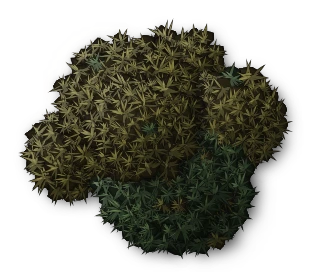
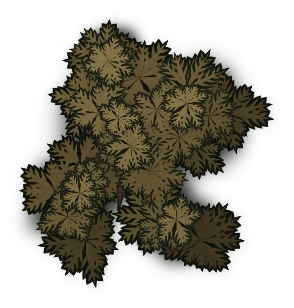
forest canopies are layered inked sprigs
the canopy outline follows the leaf tips instead of round masses: three layers of feathery star sprigs, ink under each layer, branches in the gaps and continuous olive tones.

diff --git a/src/procedural/pesados/plantas.ts b/src/procedural/pesados/plantas.ts
@@ -86,93 +86,87 @@ const pinheiroNevado = (diametro: number, seed: number): DescricaoDePiso => coni
 /** Carvalho: copa densa de muitos tufos pequenos, com folhas pintadas. */
 const carvalhoGrande = (diametro: number, seed: number): DescricaoDePiso => copaDeTufos(diametro, seed, VERDE, { miudo: 0.85, folhas: 7 });
 
-/** Tons da mata fechada à noite: verde-oliva com cachos amarelados e outros mais frios (ver `copaDeRaminhos`). */
-const OLIVA: Tons = { fundo: '#1b2313', base: '#38461f', meio: '#52622b', luz: '#717f3b', brilho: '#98a157' };
-const AMARELADO: Tons = { fundo: '#241f10', base: '#4a4520', meio: '#66602c', luz: '#857c3c', brilho: '#a89b55' };
-const FRIO: Tons = { fundo: '#141d12', base: '#2b3d26', meio: '#3b5232', luz: '#526b42', brilho: '#768a5a' };
+/** Tons da mata fechada: verde-oliva acinzentado, com moitas amareladas e outras mais frias (ver `copaDeRaminhos`). */
+const OLIVA: Tons = { fundo: '#272a1c', base: '#4a4e33', meio: '#5e633e', luz: '#777b4d', brilho: '#91935e' };
+const AMARELADO: Tons = { fundo: '#30291a', base: '#56492b', meio: '#6a5b35', luz: '#806e42', brilho: '#968352' };
+const FRIO: Tons = { fundo: '#20271e', base: '#384332', meio: '#46533f', luz: '#58654e', brilho: '#6f7b62' };
+const NANQUIM = '#12150e';
+/** A cor entre `a` e `b` (t de 0 a 1): os raminhos variam em tons contínuos, não em degraus. */
+function misturar(a: string, b: string, t: number): string {
+  const p = (h: string, k: number) => parseInt(h.slice(1 + k * 2, 3 + k * 2), 16), c = [0, 1, 2].map(k => Math.round(p(a, k) + (p(b, k) - p(a, k)) * t));
+  return '#' + c.map(v => v.toString(16).padStart(2, '0')).join('');
+}
 
-/**
- * Um cacho de folhas finas visto de cima (a unidade da copa de mata): fundo escuro em estrela com nanquim e sombra, duas voltas de folhas
- * estreitas que saem do centro, do escuro (atrás) ao claro (na frente e virado para a luz), e pontas acesas no lado da luz.
- */
-function cacho(partes: Parte[], r: () => number, x: number, y: number, raio: number, tons: Tons, z: number, lado: number, folhasBase = 24): void {
-  const n = folhasBase + Math.floor(r() * folhasBase * 0.5), luz = Math.atan2(LUZ_Y, LUZ_X), t = tonsComLuz(tons, Math.max(-0.42, Math.min(0.3, lado * 0.2))), o = { contorno: false as const, semSombra: true, suave: true };
-  // A base do cacho (só sombra projetada e um miolo escuro, sem traço).
-  partes.push(poli(bolha(x, y, raio * 0.62, raio * 0.62, 10, 0.25, r), t.fundo, z, { contorno: false, sombraLeve: true, detalhe: 1 }));
-  const folhas: { a: number; len: number; w: number; bx: number; by: number }[] = [];
-  for (let i = 0; i < n; i++) {
-    const a = r() * Math.PI * 2, d = raio * r() * 0.22, b = r() * Math.PI * 2;
-    folhas.push({ a, len: raio * (0.45 + r() * 0.55), w: raio * (0.1 + r() * 0.07), bx: x + Math.cos(b) * d, by: y + Math.sin(b) * d });
+/** Um raminho visto de cima: braços (ângulo, comprimento, largura) saindo de (x, y). Sorteado uma vez e desenhado duas (nanquim e cor). */
+interface Raminho { x: number; y: number; bracos: { a: number; len: number; w: number }[] }
+
+function sortearRaminho(r: () => number, x: number, y: number, raio: number): Raminho {
+  const n = 9 + Math.floor(r() * 4), giro = r() * Math.PI * 2, bracos: Raminho['bracos'] = [];
+  for (let i = 0; i < n; i++) bracos.push({ a: giro + (i / n) * Math.PI * 2 + (r() - 0.5) * 0.4, len: raio * (0.6 + r() * 0.4), w: raio * (0.11 + r() * 0.04) });
+  return { x, y, bracos };
+}
+
+/** Desenha o raminho: cada braço é uma lente com dois pares de folíolos em ponta, o que serrilha a borda. `engorda` (m) alarga tudo: o nanquim. */
+function desenharRaminho(partes: Parte[], f: Raminho, cor: string, z: number, engorda: number, sombra: boolean): void {
+  const o = { contorno: false as const, suave: true };
+  for (const b of f.bracos) {
+    const c = Math.cos(b.a), s = Math.sin(b.a);
+    partes.push(lente(f.x, f.y, b.a, b.len + engorda, b.w + engorda * 2, cor, z, { ...o, ...(sombra ? { sombraLeve: true } : { semSombra: true }), detalhe: 1 }));
+    for (const [t, k] of [[0.3, 0.42], [0.52, 0.34], [0.72, 0.24]] as const) for (const lado of [-1, 1]) {
+      const a = b.a + lado * 0.65;
+      partes.push(lente(f.x + c * b.len * t, f.y + s * b.len * t, a, b.len * k + engorda, b.w * 0.6 + engorda * 2, cor, z, { ...o, semSombra: true, detalhe: 2 }));
+    }
   }
-  // Cada folha tem um contorno escuro um pouco maior por baixo (o nanquim da ponta) e, por cima, a folha pintada.
-  for (const f of folhas) partes.push(lente(f.bx, f.by, f.a, f.len * 1.08, f.w * 1.45, t.fundo, z + 0.005, { contorno: 'leve', semSombra: true, detalhe: 1 }));
-  folhas.sort((p, q) => p.len - q.len).reverse();
-  folhas.forEach((f, k) => {
-    const v = Math.cos(f.a - luz), alto = k / folhas.length;   // as mais curtas ficam por cima: o miolo do cacho é a parte mais alta
-    const cor = v > 0.3 ? (alto > 0.5 ? t.luz : t.meio) : v < -0.35 ? t.base : (alto > 0.6 ? t.meio : t.base);
-    partes.push(lente(f.bx, f.by, f.a, f.len, f.w, tom(cor, (r() - 0.5) * 0.1), z + 0.01 + alto * 0.01, { ...o, detalhe: alto > 0.5 ? 2 : 1 }));
-    if (v > 0.2 && r() < 0.55) partes.push(lente(f.bx + Math.cos(f.a) * f.len * 0.35, f.by + Math.sin(f.a) * f.len * 0.35, f.a, f.len * 0.55, f.w * 0.4, t.brilho, z + 0.022, { ...o, detalhe: 3, alfa: 0.85 }));
-  });
 }
 
 /**
- * Copa de mata vista de cima, no estilo das copas pintadas de mapas de batalha: dezenas de cachos de folhas finas (não bolas), com nanquim
- * e sombra em cada cacho, galhos escuros que aparecem nos vãos e cachos de tons variados (oliva, amarelado e frio). Os cachos de fora ficam
- * embaixo e os do miolo por cima, como uma cúpula; os virados para a luz (noroeste) clareiam. `ralo` (0 a 1) abre mais vãos.
+ * Copa de mata vista de cima, desenhada como nas copas de mapas de batalha pintados à mão. Não há uma massa redonda: a copa é feita de
+ * raminhos estrelados (folíolos em ponta) em três camadas, da de baixo (raminhos maiores e escuros, que fazem a silhueta) à de cima (menores
+ * e claros, só no miolo das moitas). Cada camada tem o nanquim por baixo de todos os seus raminhos, então a borda da copa e a de cada camada
+ * seguem as pontas das folhas. Moitas de tamanhos bem diferentes dão o contorno irregular; galhos aparecem entre as camadas; os vãos são
+ * escuros. A luz vem do noroeste. `ralo` (0 a 1) espaça os raminhos.
  */
 function copaDeRaminhos(diametro: number, seed: number, { ralo = 0.2, tons = OLIVA }: { ralo?: number; tons?: Tons } = {}): DescricaoDePiso {
-  // `R` é o raio de arrumação: as folhas dos cachos da borda passam dele, e tudo tem de caber na pegada.
-  const r = mulberry32(seed), R = diametro / 2 - 0.36, partes: Parte[] = [];
-  // Galhos: do tronco para fora, com bifurcações; ficam sob os cachos e aparecem nos vãos.
-  const galhos = 5 + Math.floor(r() * 3);
-  for (let i = 0; i < galhos; i++) {
-    const a = (i / galhos) * Math.PI * 2 + r() * 0.6, len = R * (0.45 + r() * 0.15), mx = Math.cos(a) * len * 0.5 + (r() - 0.5) * R * 0.12, my = Math.sin(a) * len * 0.5 + (r() - 0.5) * R * 0.12;
-    partes.push(tira([0, 0, mx, my, Math.cos(a) * len, Math.sin(a) * len], R * 0.05, '#3b2e22', 1.4, { contorno: 'leve', semSombra: true, detalhe: 1 }, 0.25));
-    for (const lado of [-1, 1]) if (r() < 0.75) { const b = a + lado * (0.45 + r() * 0.35), l2 = len * (0.35 + r() * 0.2); partes.push(tira([mx, my, mx + Math.cos(b) * l2, my + Math.sin(b) * l2], R * 0.025, '#45362a', 1.42, { contorno: 'leve', semSombra: true, detalhe: 2 }, 0.2)); }
+  const r = mulberry32(seed), R = diametro / 2 - 0.3, partes: Parte[] = [];
+  // Moitas: uma grande perto do miolo e de 2 a 6 em volta, com raios bem diferentes; a copa é a união delas.
+  const moitas: { x: number; y: number; r: number; tons: Tons }[] = [];
+  const variar = (): Tons => (r() < 0.14 ? (r() < 0.4 ? AMARELADO : FRIO) : tons);
+  moitas.push({ x: (r() - 0.5) * R * 0.25, y: (r() - 0.5) * R * 0.25, r: R * (0.5 + r() * 0.1), tons: variar() });
+  const nM = 2 + Math.floor(R * 0.8 + r() * 2), giro = r() * Math.PI * 2;
+  for (let i = 0; i < nM; i++) {
+    const a = giro + (i / nM) * Math.PI * 2 + (r() - 0.5) * 0.9, rm = R * (0.26 + r() * 0.22), d = Math.max(0, R - rm * (1 + r() * 0.25));
+    moitas.push({ x: Math.cos(a) * d, y: Math.sin(a) * d, r: rm, tons: variar() });
   }
-  partes.push(elipse(0, 0, R * 0.16, R * 0.16, '#33271d', 1.45, { contorno: 'leve', semSombra: true, detalhe: 1 }));
-  // Sombra interna: o miolo da copa é escuro (nos vãos do meio não se vê o chão, e sim a sombra da própria copa).
-  partes.push(poli(bolha(0, 0, R * 0.42 * (1 - ralo * 0.45), R * 0.42 * (1 - ralo * 0.45), 18, 0.18, r), '#0d120a', 1.3, { contorno: false, semSombra: true, suave: true, alfa: 0.85, detalhe: 1 }));
-  // Massas de folhagem: uma no miolo e um anel de 4 a 8 em volta, com raios sorteados (o contorno sai em lóbulos). Cada massa é uma cúpula
-  // de cachos com o próprio lado da luz e o próprio lado da sombra, e projeta sombra sobre as de baixo: é isso que dá volume à copa.
-  // Copa de contorno irregular: massas de tamanhos bem diferentes, uma ou duas falhas no anel (reentrâncias), uma massa grande puxada para
-  // fora num lado e o miolo deslocado. Nada passa da pegada: cada massa fica a pelo menos o próprio raio da borda.
-  const nAnel = Math.max(4, Math.min(9, Math.round(3 + R * 1.2))), massas: { x: number; y: number; r: number; z: number }[] = [];
-  const giro = r() * Math.PI * 2, falhas = new Set<number>(), forte = Math.floor(r() * nAnel);
-  for (let f = 0; f < (R > 2.5 ? 1 : 0); f++) { const i = Math.floor(r() * nAnel); if (i !== forte) falhas.add(i); }
-  for (let i = 0; i < nAnel; i++) {
-    if (falhas.has(i)) continue;
-    const a = giro + (i / nAnel) * Math.PI * 2 + (r() - 0.5) * 0.6, rm = R * (i === forte ? 0.5 + r() * 0.06 : 0.32 + r() * 0.16), d = Math.min(R - rm, (R - rm) * (0.62 + r() * 0.38));
-    massas.push({ x: Math.cos(a) * d, y: Math.sin(a) * d, r: rm, z: 2 + r() * 0.3 });
+  // Os vãos entre os raminhos de baixo são sombra da própria copa, não chão.
+  for (const m of moitas) partes.push(poli(bolha(m.x, m.y, m.r * 0.78, m.r * 0.78, 14, 0.2, r), '#0c0f09', 1.8, { contorno: false, semSombra: true, suave: true, alfa: 0.85, desfoque: m.r * 0.15, detalhe: 1 }));
+  // Galhos: do tronco para fora, entre a camada de baixo e a do meio.
+  const nG = 4 + Math.floor(r() * 3);
+  for (let i = 0; i < nG; i++) {
+    const a = (i / nG) * Math.PI * 2 + r() * 0.7, len = R * (0.38 + r() * 0.18), mx = Math.cos(a) * len * 0.5 + (r() - 0.5) * 0.3, my = Math.sin(a) * len * 0.5 + (r() - 0.5) * 0.3;
+    partes.push(tira([0, 0, mx, my, Math.cos(a + (r() - 0.5) * 0.4) * len, Math.sin(a + (r() - 0.5) * 0.4) * len], 0.1 + R * 0.025, '#4a3828', 2.12, { contorno: 'leve', semSombra: true, detalhe: 1 }, 0.3));
   }
-  const am = giro + (forte / nAnel) * Math.PI * 2;
-  massas.push({ x: Math.cos(am) * R * 0.18 + (r() - 0.5) * R * 0.15, y: Math.sin(am) * R * 0.18 + (r() - 0.5) * R * 0.15, r: R * (0.4 + r() * 0.12), z: 2.6 });
-  const miudo = 0.24, variantes = [tons, tons, tons, tons, tons, AMARELADO, FRIO];
-  for (const m of massas.sort((a, b) => a.z - b.z)) {
-    const ladoDaMassa = (m.x * LUZ_X + m.y * LUZ_Y) / R, tonsDaMassa = r() < 0.18 ? variantes[5 + Math.floor(r() * 2)]! : tons;
-    // Silhueta da massa: contorno recortado em pontas de folha, com nanquim firme e a sombra da massa sobre o que está embaixo.
-    const nPontas = Math.round(m.r * 42), fase = r() * 6, silhueta: number[] = [];
-    for (let i = 0; i < nPontas; i++) {
-      const a = (i / nPontas) * Math.PI * 2, lobo = 0.06 * Math.sin(a * 5 + fase) + 0.04 * Math.sin(a * 11 + fase * 2), rr = m.r * (0.92 + lobo + (i % 2 ? -0.07 - r() * 0.05 : r() * 0.04));
-      silhueta.push(m.x + Math.cos(a) * rr, m.y + Math.sin(a) * rr);
+  // Camadas: raio do raminho, até onde vai na moita e a altura.
+  const camadas = [{ raio: 0.68, alcance: 0.92, z: 2 }, { raio: 0.56, alcance: 0.66, z: 2.3 }, { raio: 0.45, alcance: 0.4, z: 2.6 }];
+  camadas.forEach((cam, c) => {
+    const lista: { f: Raminho; cor: string }[] = [], minimo = cam.raio * (0.85 + ralo * 0.6);
+    for (const m of moitas) {
+      const alcance = Math.max(0.05, m.r * cam.alcance - cam.raio * 0.35), alvo = Math.ceil((Math.PI * alcance * alcance) / (minimo * minimo) * 1.2) + 1;
+      const aqui: { x: number; y: number }[] = [];
+      for (let t = 0; t < alvo * 12 && aqui.length < alvo; t++) {
+        const a = r() * Math.PI * 2, d = Math.sqrt(r()) * alcance, x = m.x + Math.cos(a) * d, y = m.y + Math.sin(a) * d;
+        if (aqui.some(q => Math.hypot(q.x - x, q.y - y) < minimo)) continue;
+        aqui.push({ x, y });
+        // A cor: a camada de cima é mais clara; o lado noroeste da copa e de cada moita clareia, o sudeste escurece.
+        const lado = (x * LUZ_X + y * LUZ_Y) / R * 0.6 + ((x - m.x) * LUZ_X + (y - m.y) * LUZ_Y) / m.r * 0.6 + (r() - 0.5) * 0.3;
+        const escala = [m.tons.fundo, m.tons.base, m.tons.meio, m.tons.luz, m.tons.brilho], k = Math.max(0, Math.min(3.999, 1.5 + c * 0.9 + lado * 1.1 + (r() - 0.5) * 0.4)), k0 = Math.floor(k);
+        lista.push({ f: sortearRaminho(r, x, y, cam.raio * (0.85 + r() * 0.3)), cor: misturar(escala[k0]!, escala[k0 + 1]!, k - k0) });
+      }
     }
-    partes.push(poli(silhueta, tonsDaMassa.fundo, m.z, { detalhe: 1 }));
-    // Por dentro, cachos miúdos e apertados (folhas de 10 a 30 cm), sem deixar ver o chão.
-    const cachos: { x: number; y: number; r: number; d: number }[] = [];
-    for (let tent = 0; tent < 9000 && cachos.length < 1100; tent++) {
-      const a = r() * Math.PI * 2, d = Math.sqrt(r()) * m.r * 0.9, x = m.x + Math.cos(a) * d, y = m.y + Math.sin(a) * d, rr = miudo * (0.75 + r() * 0.5);
-      if (cachos.some(c => Math.hypot(c.x - x, c.y - y) < (c.r + rr) * (0.3 + ralo * 0.4))) continue;
-      cachos.push({ x, y, r: rr, d: d / m.r });
-    }
-    for (const c of cachos.sort((a, b) => b.d - a.d)) {
-      // Luz na massa: o lado noroeste de cada cúpula clareia, o sudeste escurece; o miolo de cada massa é a parte mais alta.
-      const local = ((c.x - m.x) * LUZ_X + (c.y - m.y) * LUZ_Y) / m.r, t = r() < 0.12 ? variantes[Math.floor(r() * variantes.length)]! : tonsDaMassa;
-      cacho(partes, r, c.x, c.y, c.r, t, m.z + 0.02 + (1 - c.d) * 0.08, local * 1.1 + ladoDaMassa * 0.35 - (c.d > 0.75 && local < 0 ? 0.6 : 0), 14);
-    }
-    // Volume: um véu claro no lado da luz e um escuro no lado oposto, macios, dentro da massa.
-    partes.push(poli(bolha(m.x + LUZ_X * m.r * 0.3, m.y + LUZ_Y * m.r * 0.3, m.r * 0.45, m.r * 0.4, 12, 0.2, r), tonsDaMassa.brilho, m.z + 0.12, { contorno: false, semSombra: true, suave: true, alfa: 0.16, desfoque: m.r * 0.25 }));
-    partes.push(poli(bolha(m.x - LUZ_X * m.r * 0.38, m.y - LUZ_Y * m.r * 0.38, m.r * 0.5, m.r * 0.42, 12, 0.2, r), '#050804', m.z + 0.12, { contorno: false, semSombra: true, suave: true, alfa: 0.32, desfoque: m.r * 0.25 }));
-  }
+    // Os de fora primeiro: o miolo fica por cima.
+    lista.sort((p, q) => Math.hypot(q.f.x, q.f.y) - Math.hypot(p.f.x, p.f.y));
+    for (const { f } of lista) desenharRaminho(partes, f, c === 0 ? NANQUIM : '#1d2116', cam.z, c === 0 ? 0.05 : 0.032, true);
+    lista.forEach(({ f, cor }, i) => desenharRaminho(partes, f, cor, cam.z + 0.01 + (i / lista.length) * 0.02, 0, false));
+  });
   return { tipo: 'piso', pegada: [diametro, diametro], partes };
 }
 
@@ -281,7 +275,7 @@ export const PLANTAS: GeradorPesado[] = [
     gerar: p => arbustoSeco(num(p.params.diametro, 1.5, 0.8, 4), p.seed, p.params.neve === true) },
   { id: 'carvalho-grande', altura: ([w]) => w * 1.6, nome: 'Carvalho grande', categoria: 'exterior', funcoes: ['jardim'], tags: ['arvore', 'carvalho', 'planta', 'copa', 'exterior', 'mata'], generos: [], kit: 'mata', versao: 2, res: 64,
     variantes: [{ nome: '6 m', sufixo: '6m', params: { diametro: 6 }, seed: 91 }, { nome: '7 m', sufixo: '7m', params: { diametro: 7 }, seed: 92 }, { nome: '8 m', sufixo: '8m', params: { diametro: 8 }, seed: 93 }], gerar: p => carvalhoGrande(num(p.params.diametro, 7, 5, 10), p.seed) },
-  { id: 'arvore-da-mata', altura: ([w]) => w * 1.7, nome: 'Árvore da mata', categoria: 'exterior', funcoes: ['jardim'], tags: ['arvore', 'planta', 'copa', 'exterior', 'mata', 'floresta'], generos: [], kit: 'mata', versao: 3, res: 64,
+  { id: 'arvore-da-mata', altura: ([w]) => w * 1.7, nome: 'Árvore da mata', categoria: 'exterior', funcoes: ['jardim'], tags: ['arvore', 'planta', 'copa', 'exterior', 'mata', 'floresta'], generos: [], kit: 'mata', versao: 12, res: 64,
     variantes: [{ nome: '4 m', sufixo: '4m', params: { diametro: 4 }, seed: 111 }, { nome: '6 m', sufixo: '6m', params: { diametro: 6 }, seed: 112 }, { nome: '8 m', sufixo: '8m', params: { diametro: 8 }, seed: 113 }, { nome: '6 m, ralinha', sufixo: '6m-rala', params: { diametro: 6, ralo: 0.7 }, seed: 114 }, { nome: '5 m, amarelada', sufixo: '5m-amarelada', params: { diametro: 5, tons: 'amarelado' }, seed: 115 }],
     gerar: p => copaDeRaminhos(num(p.params.diametro, 6, 2, 12), p.seed, { ralo: num(p.params.ralo, 0.2, 0, 1), tons: p.params.tons === 'amarelado' ? AMARELADO : p.params.tons === 'frio' ? FRIO : OLIVA }) },
   { id: 'folhagem-tropical', altura: ([w]) => w * 0.5, nome: 'Folhagem tropical', categoria: 'exterior', funcoes: ['jardim'], tags: ['arbusto', 'planta', 'folhagem', 'tropical', 'exterior', 'mata'], generos: [], kit: 'mata', versao: 1, res: 64,
